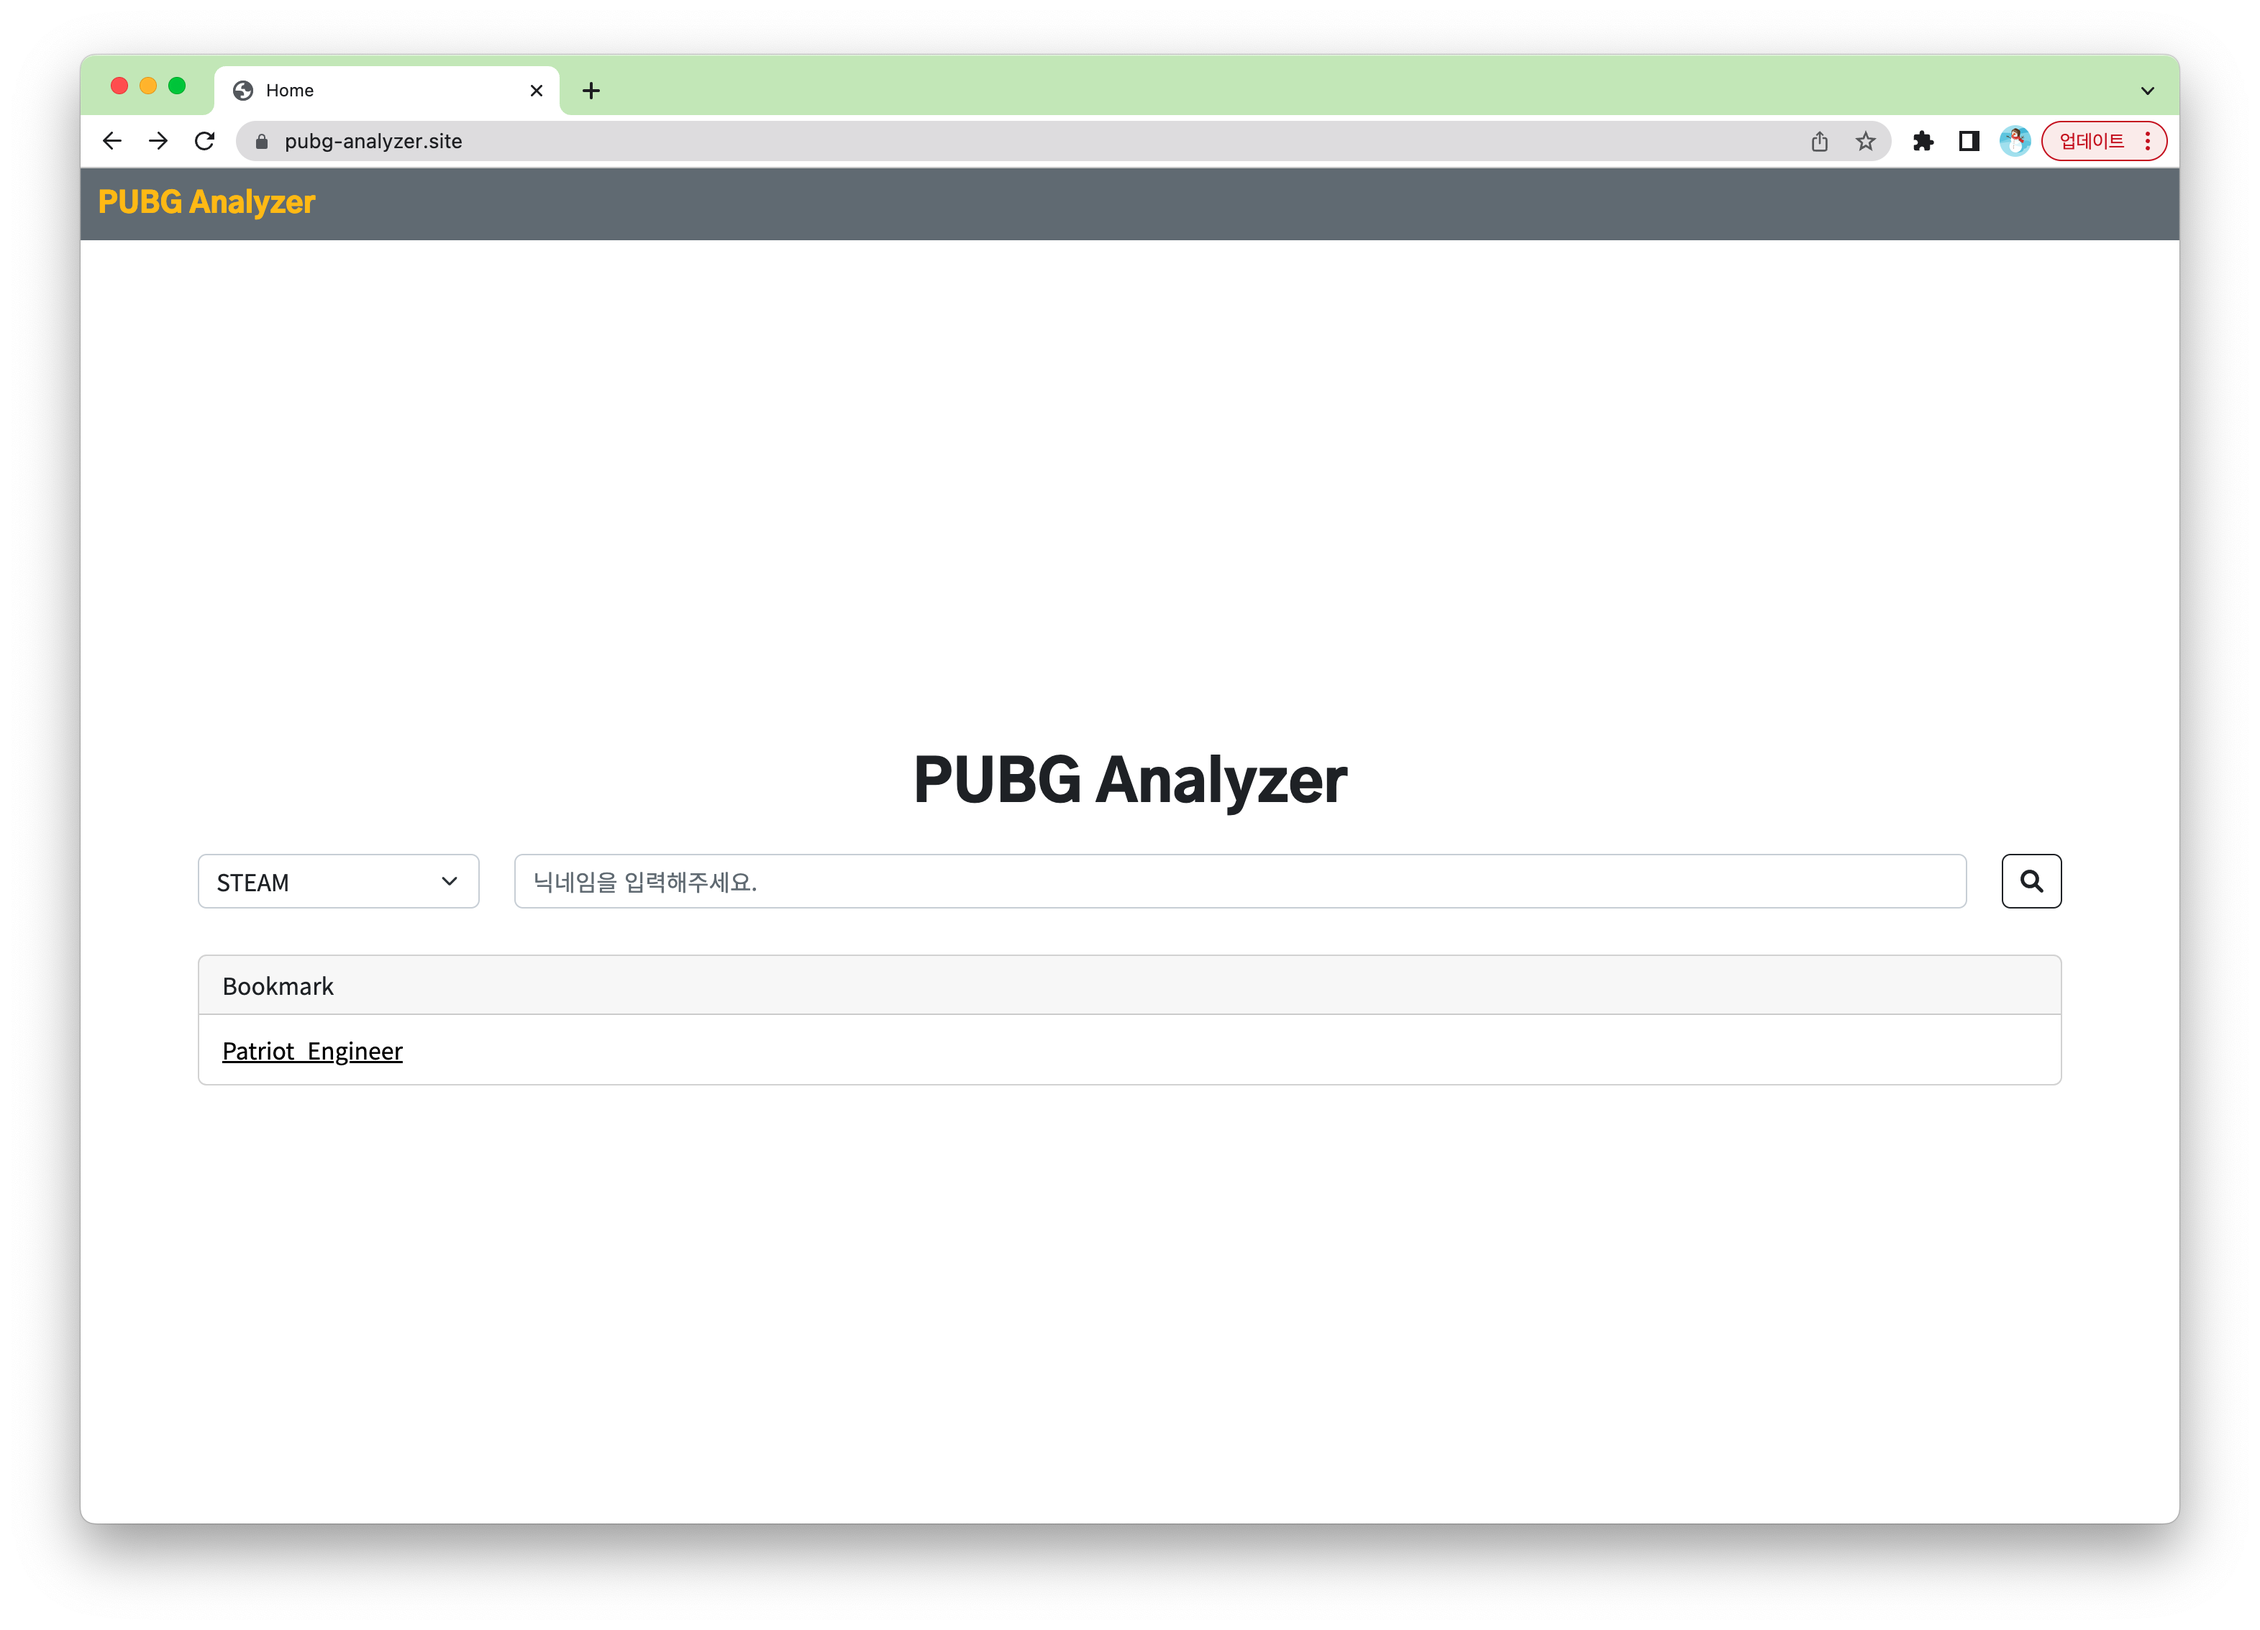
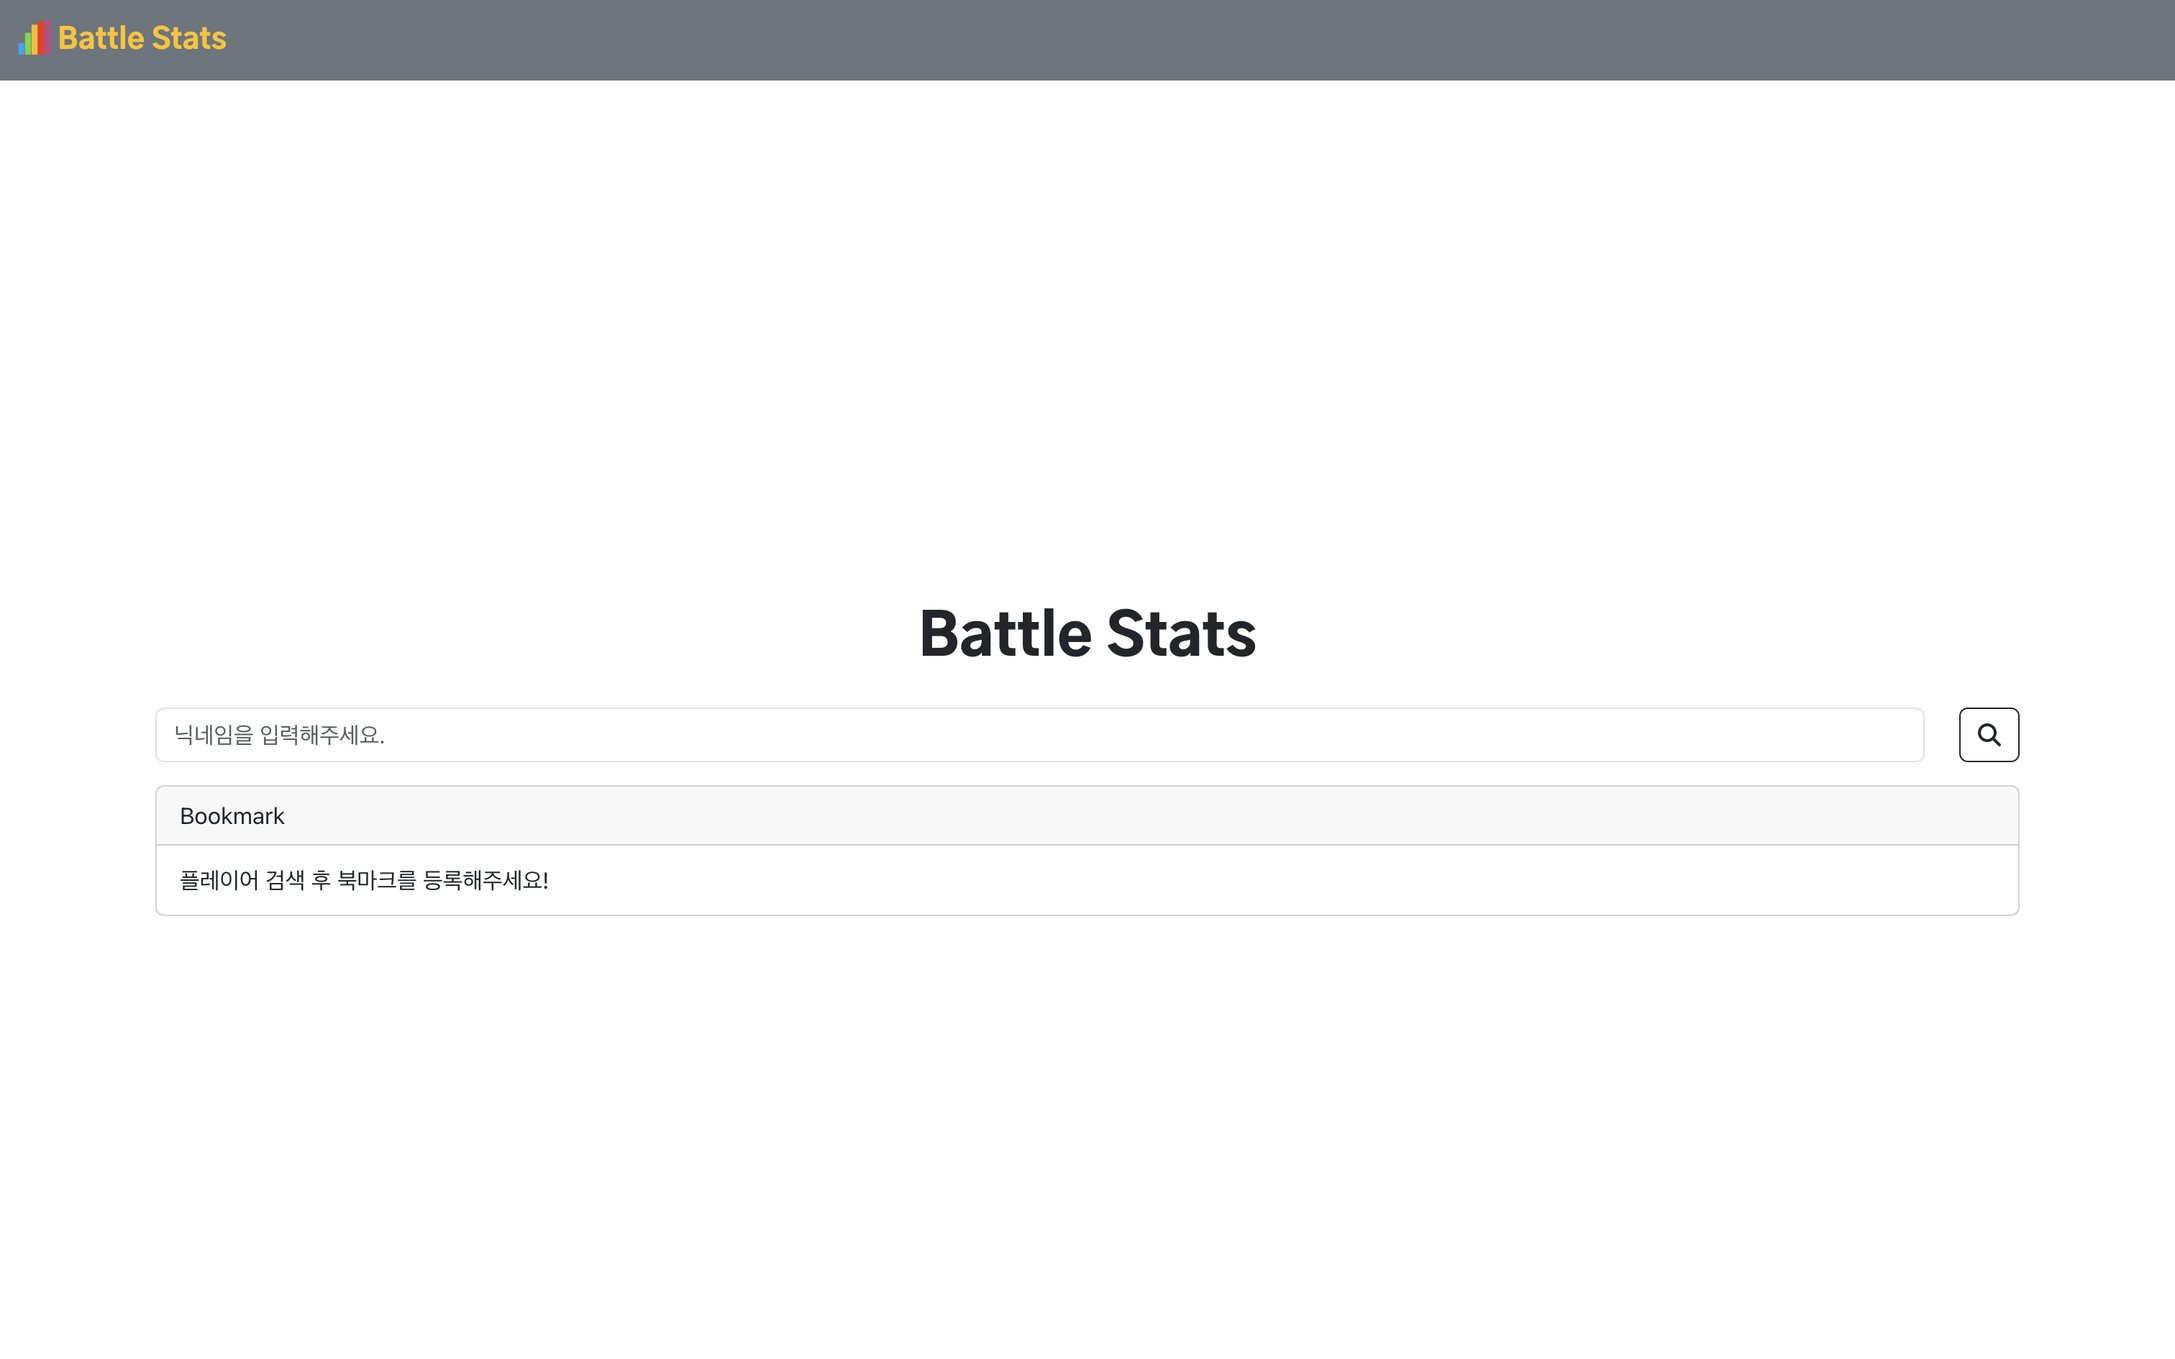
[Docs] README 페이지 이미지 변경

diff --git a/README.md b/README.md
@@ -5,15 +5,11 @@
    - [홈페이지](https://www.battlestats.site)
    - [Demo 플레이어 조회](https://www.battlestats.site/player/WackyJacky101)
 
-# 📍 ERD
-   ![ERD](./assets/erd.png)
-
 # 📄 Page
 
 ## Home
    유저 검색 및 북마크 기능 제공
    ![홈페이지](./assets/home.png)
-   - 다양한 Shard(스팀, 카카오, PS 등) 지원
    
 ## Match
    매치 조회, 매치 결과 계산 기능 제공
@@ -21,26 +17,8 @@
    ![매치_조회_페이지](./assets/matches.png)
    - 매치 결과 맵, 등수, 킬, 데미지 등 요약 정보 조회
    
-   ### 매치 결과 계산
-   ![매치_결과_계산](./assets/calculate_matches.png)
-   - 선택한 매치의 합산, 평균 결과 계산
-   
 ## Analyze
    매치 결과 분석
    ![매치_결과_분석_페이지](./assets/analyze.png)
    - 킬 정보 제공
    - 플레이어, 봇 구분
-   
-   ### 데미지 로그 분석
-   ![데미지_로그_분석](./assets/analyze_detail.png)
-   - 팀원을 포함한 누적 데미지 제공
-   - 데미지 이유, 데미지 부위, 데미지 제공
-
-# 🔑 Admin
-   서비스 관리를 위한 관리 페이지입니다.
-   ![관리자_페이지](./assets/admin_home.png)
-   
-## Manage Matches
-   매치 조회, 매치 선택 삭제, 조건부 삭제 기능 제공
-   ![매치_관리_페이지(1)](./assets/admin_manage_matches(1).png)
-   ![매치_관리_페이지(2)](./assets/admin_manage_matches(2).png)
